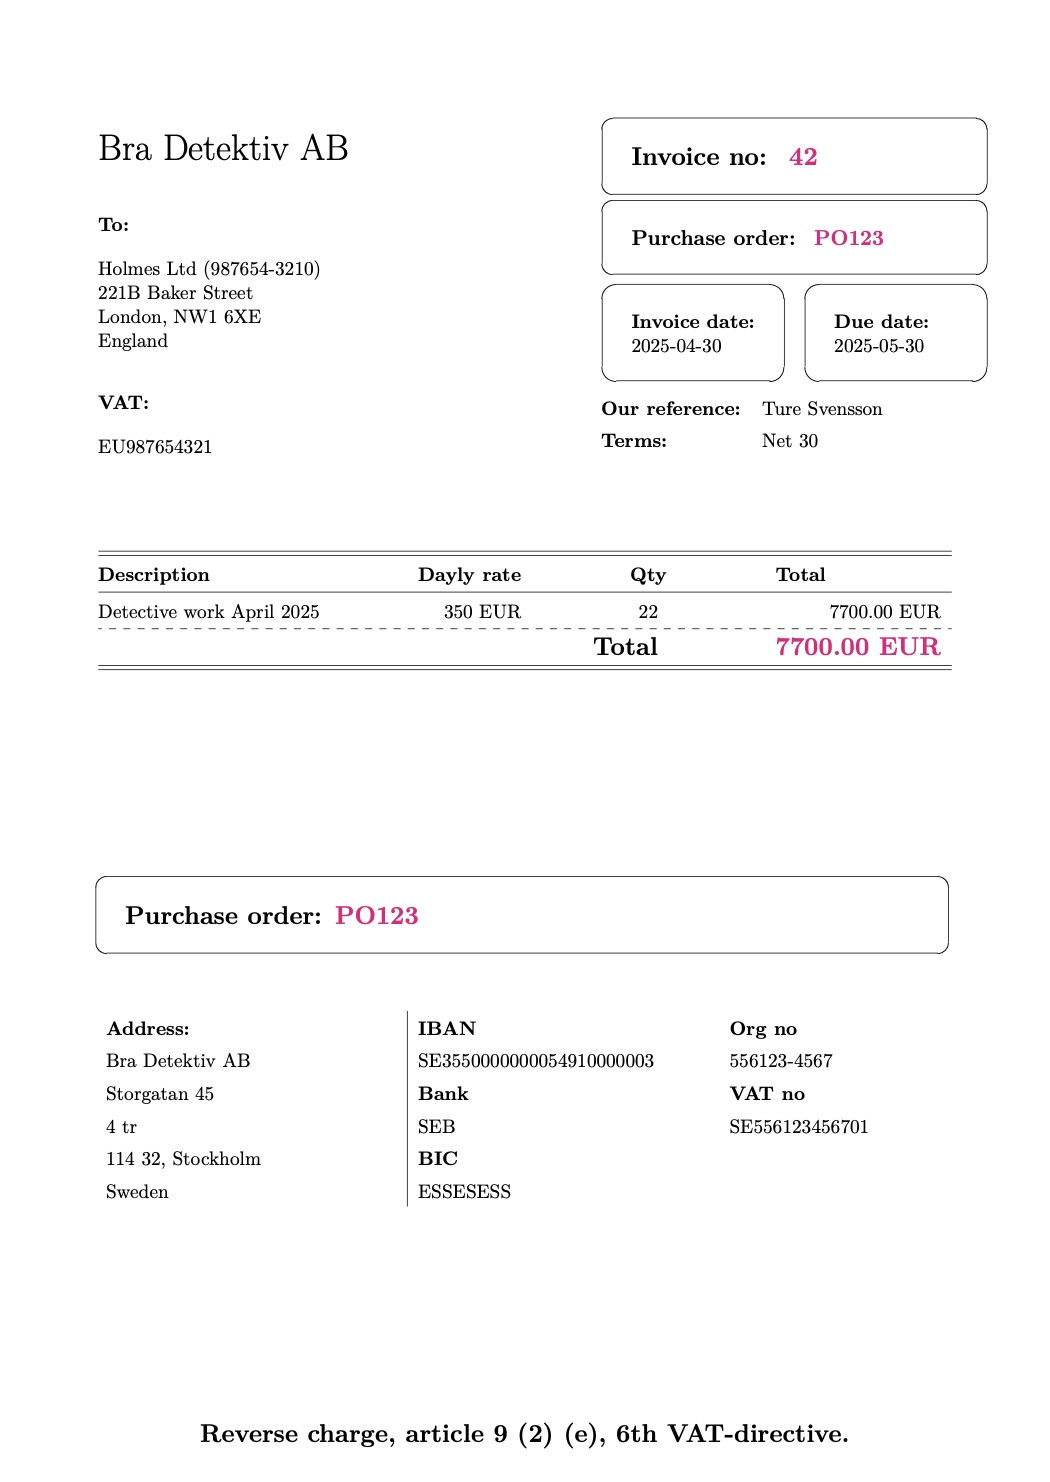
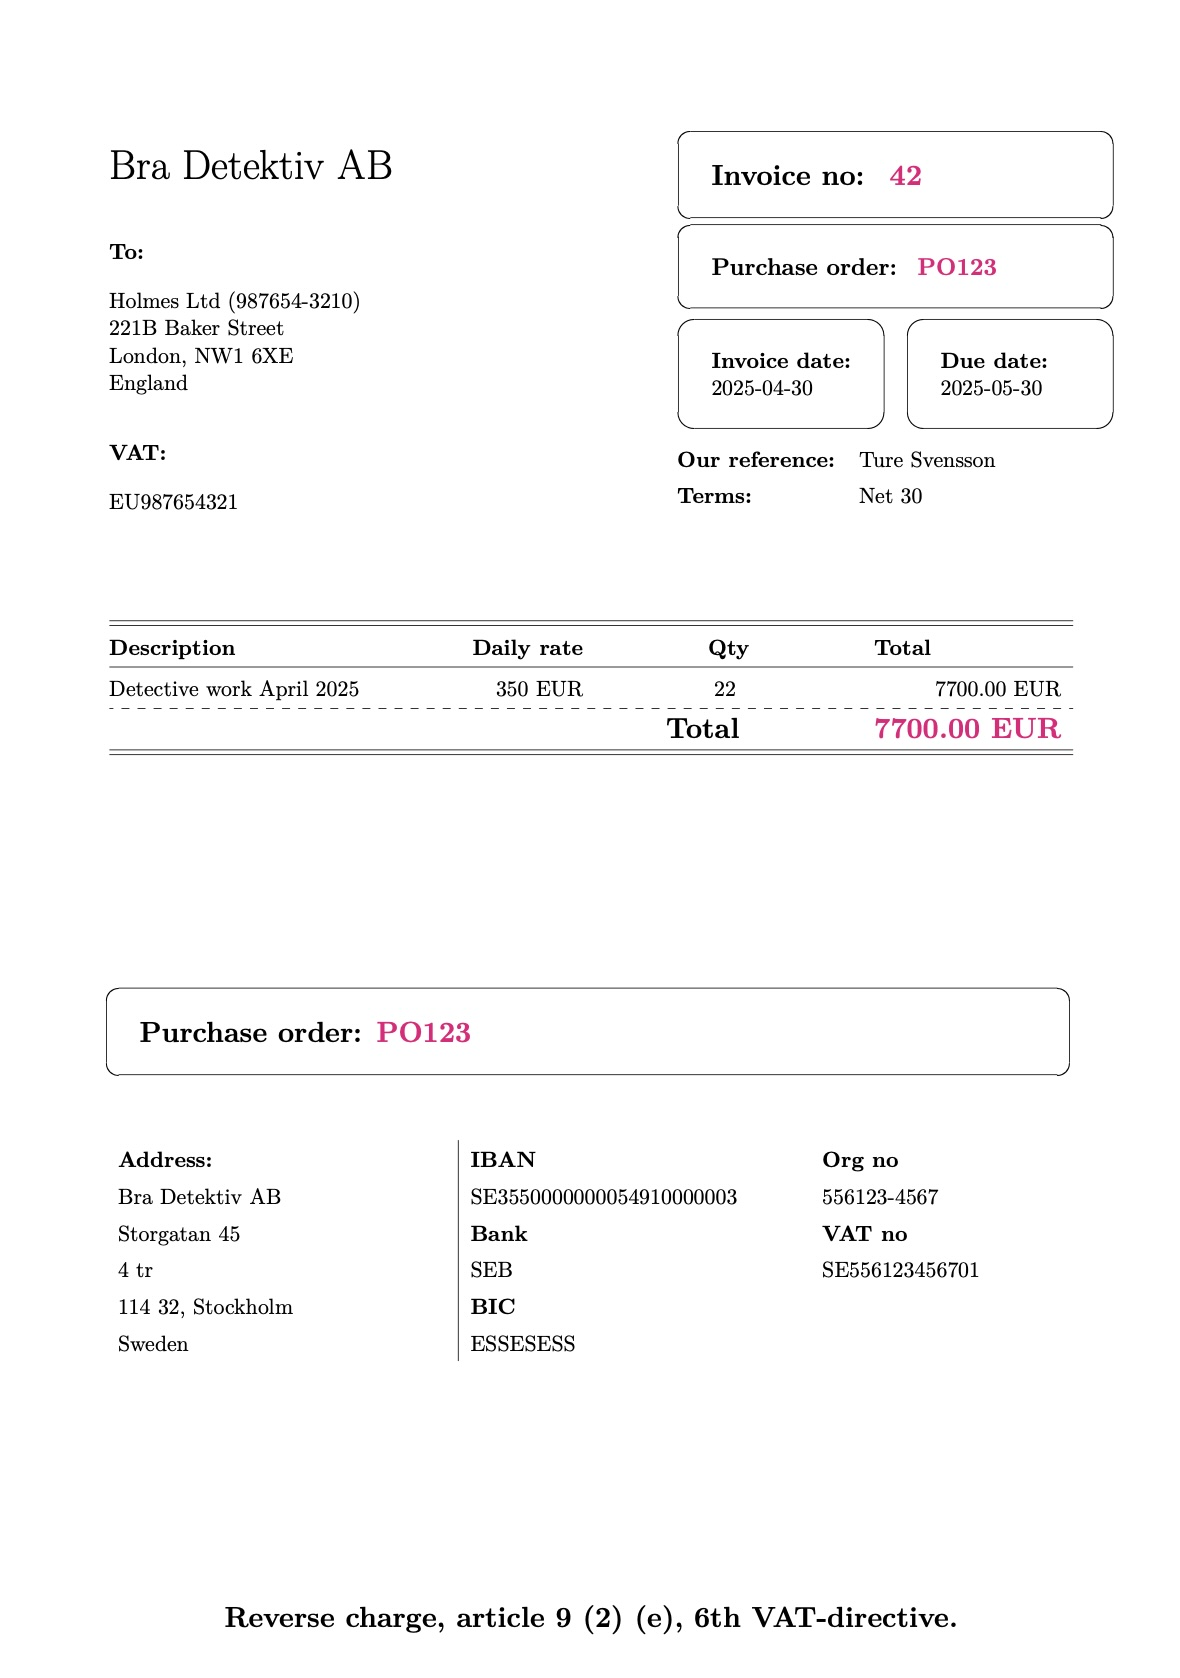
Fix typos

diff --git a/src/services_rendered_and_cost_table.tex b/src/services_rendered_and_cost_table.tex
@@ -2,7 +2,7 @@
 \newcolumntype{L}{@{}l@{\extracolsep{\fill}}}% Needs `array` package
 \begin{threeparttable}
 \begin{tabular*}{\linewidth}{Lrcr}\hline\hline
-\textbf{Description}  & \multicolumn{1}{l}{\textbf{Dayly rate}} &  \multicolumn{1}{l}{\textbf{Qty}} & \multicolumn{1}{l}{\textbf{Total}} \\
+\textbf{Description}  & \multicolumn{1}{l}{\textbf{Daily rate}} &  \multicolumn{1}{l}{\textbf{Qty}} & \multicolumn{1}{l}{\textbf{Total}} \\
 \hline
     \product{\projectName~\previousmonthyear}{\dayRate{}}{\daysToInvoice{}}\hdashline
     \multicolumn{3}{r@{~~~}}{\Large\textbf{Total}} & \Large\textcolor{colorEmphasis}{\textbf{\totalttc}}\\

diff --git a/README.md b/README.md
@@ -3,7 +3,7 @@ A config **once**, inter-month-idempotent, calendar aware, and **maintenance-fre
 
 # Features
 * Config once: Set your company, client and project information using ENV vars in the `.envrc.secret` file (git ignored). **No LaTeX or Lua skills needed!**
-* Inter-month-idempontent: You build the invoice any number of times, it always results in the same invoice number when run within the same month. The proceeding month the next invoice number will be used.
+* Inter-month-idempotent: You build the invoice any number of times, it always results in the same invoice number when run within the same month. The proceeding month the next invoice number will be used.
 * Calendar aware: Using your machines system time to determine the month, it calculates the number of working days for the target month. Invoice date is set to last day of the target month and due date is set dependent on the payment terms set in your ENV config.
 * Maintenance free: The invoice number automatically set based on the current month. When you build the invoice the next month, the next number is used.
 
@@ -47,8 +47,8 @@ Which will call out to `lualatex`.
 
 # Usage
 > [!NOTE]
-> All enviroment variables references to in document are all set in `.envrc.secret` (which you should have copied over from `.envrc.example`).
-> They will all be exported when you call `direnv allow .` (needed once and then after each change to `.envrc.secret`, which you typically only upon intial setup)
+> All environment variables references to in document are all set in `.envrc.secret` (which you should have copied over from `.envrc.example`).
+> They will all be exported when you call `direnv allow .` (needed once and then after each change to `.envrc.secret`, which you typically only upon initial setup)
 
 Build the invoice (`make` standing in the root of this project) on the first day month after the completed month. So if you have finished working in May, wait until June and build it. The invoice date will be set to `2025-05-31` and the due date will be set to `invoice day + $INVOICE_DAYS_DUE_AFTER_END_OF_MONTH`.
 
